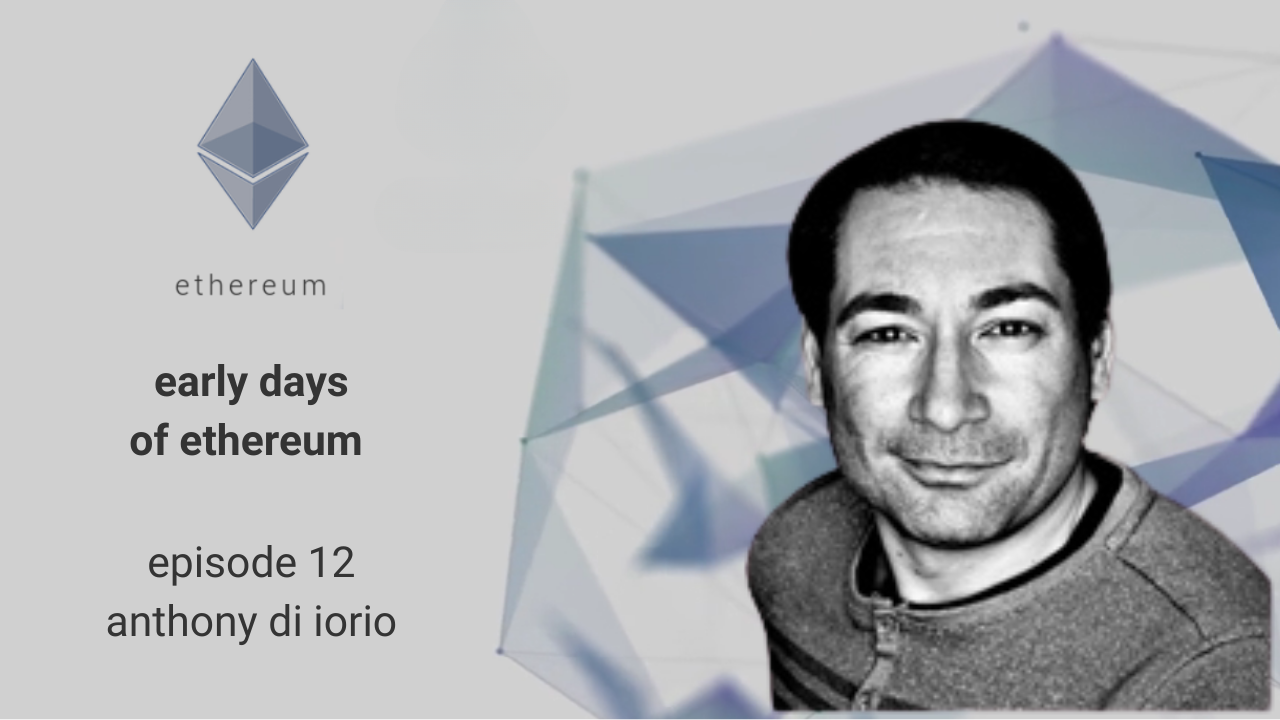
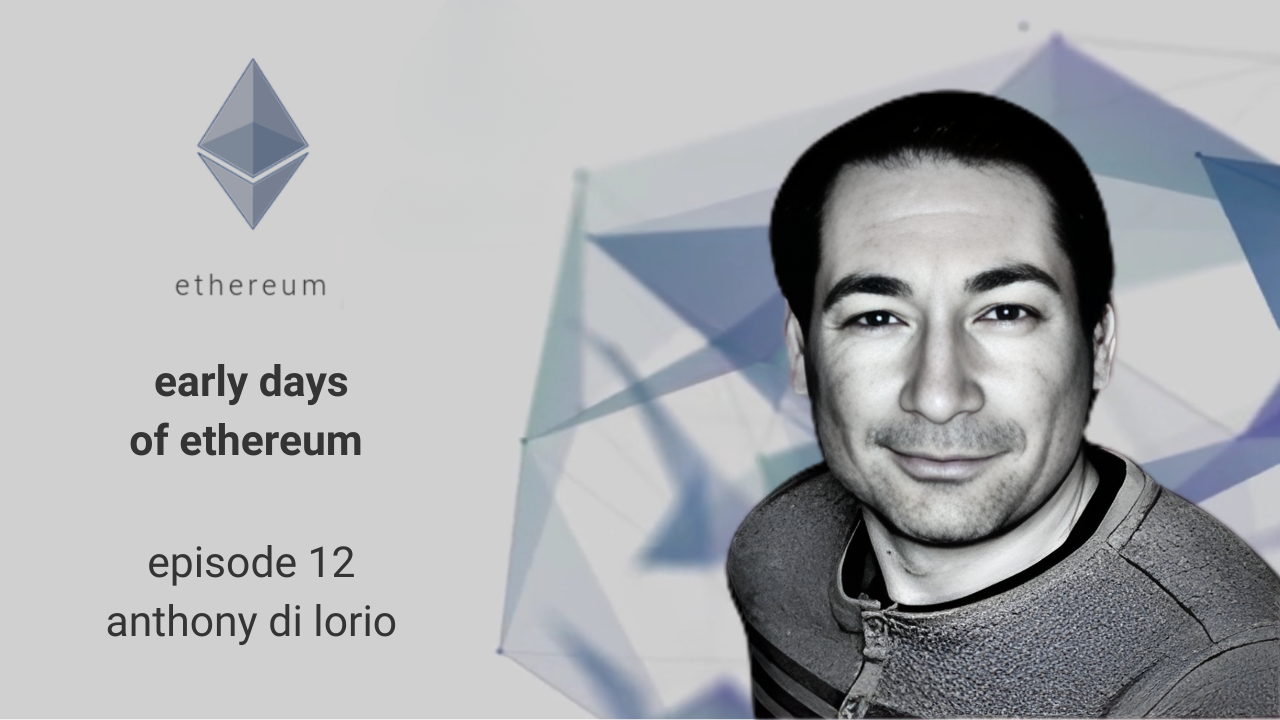
Add Episode 12 - Anthony Di Iorio

Changed region(s): [[0.5625, 0.1222, 1.0, 1.0]]

diff --git a/source/_videos/episode012-anthony-di-iorio.md b/source/_videos/episode012-anthony-di-iorio.md
@@ -1,0 +1,15 @@
+---
+title: "Early Days of Ethereum - Episode 12 - Anthony Di Iorio"
+date: 2026-02-25
+show: true
+guests: ["Anthony Di Iorio"]
+hosts: ["Bob Summerwill"]
+description: "Ethereum co-founder Anthony Di Iorio shares his journey from organizing early Bitcoin meetups in Toronto to helping launch Ethereum. He discusses his role in bringing together the founding team, funding early development, and his vision for decentralization that led him to create Decentral and the Jaxx wallet."
+img: /images/covers-for-conversations/episode012-anthony-di-iorio.png
+---
+
+## Audio
+
+## Transcript
+
+<!-- TABLE_OF_CONTENTS -->
